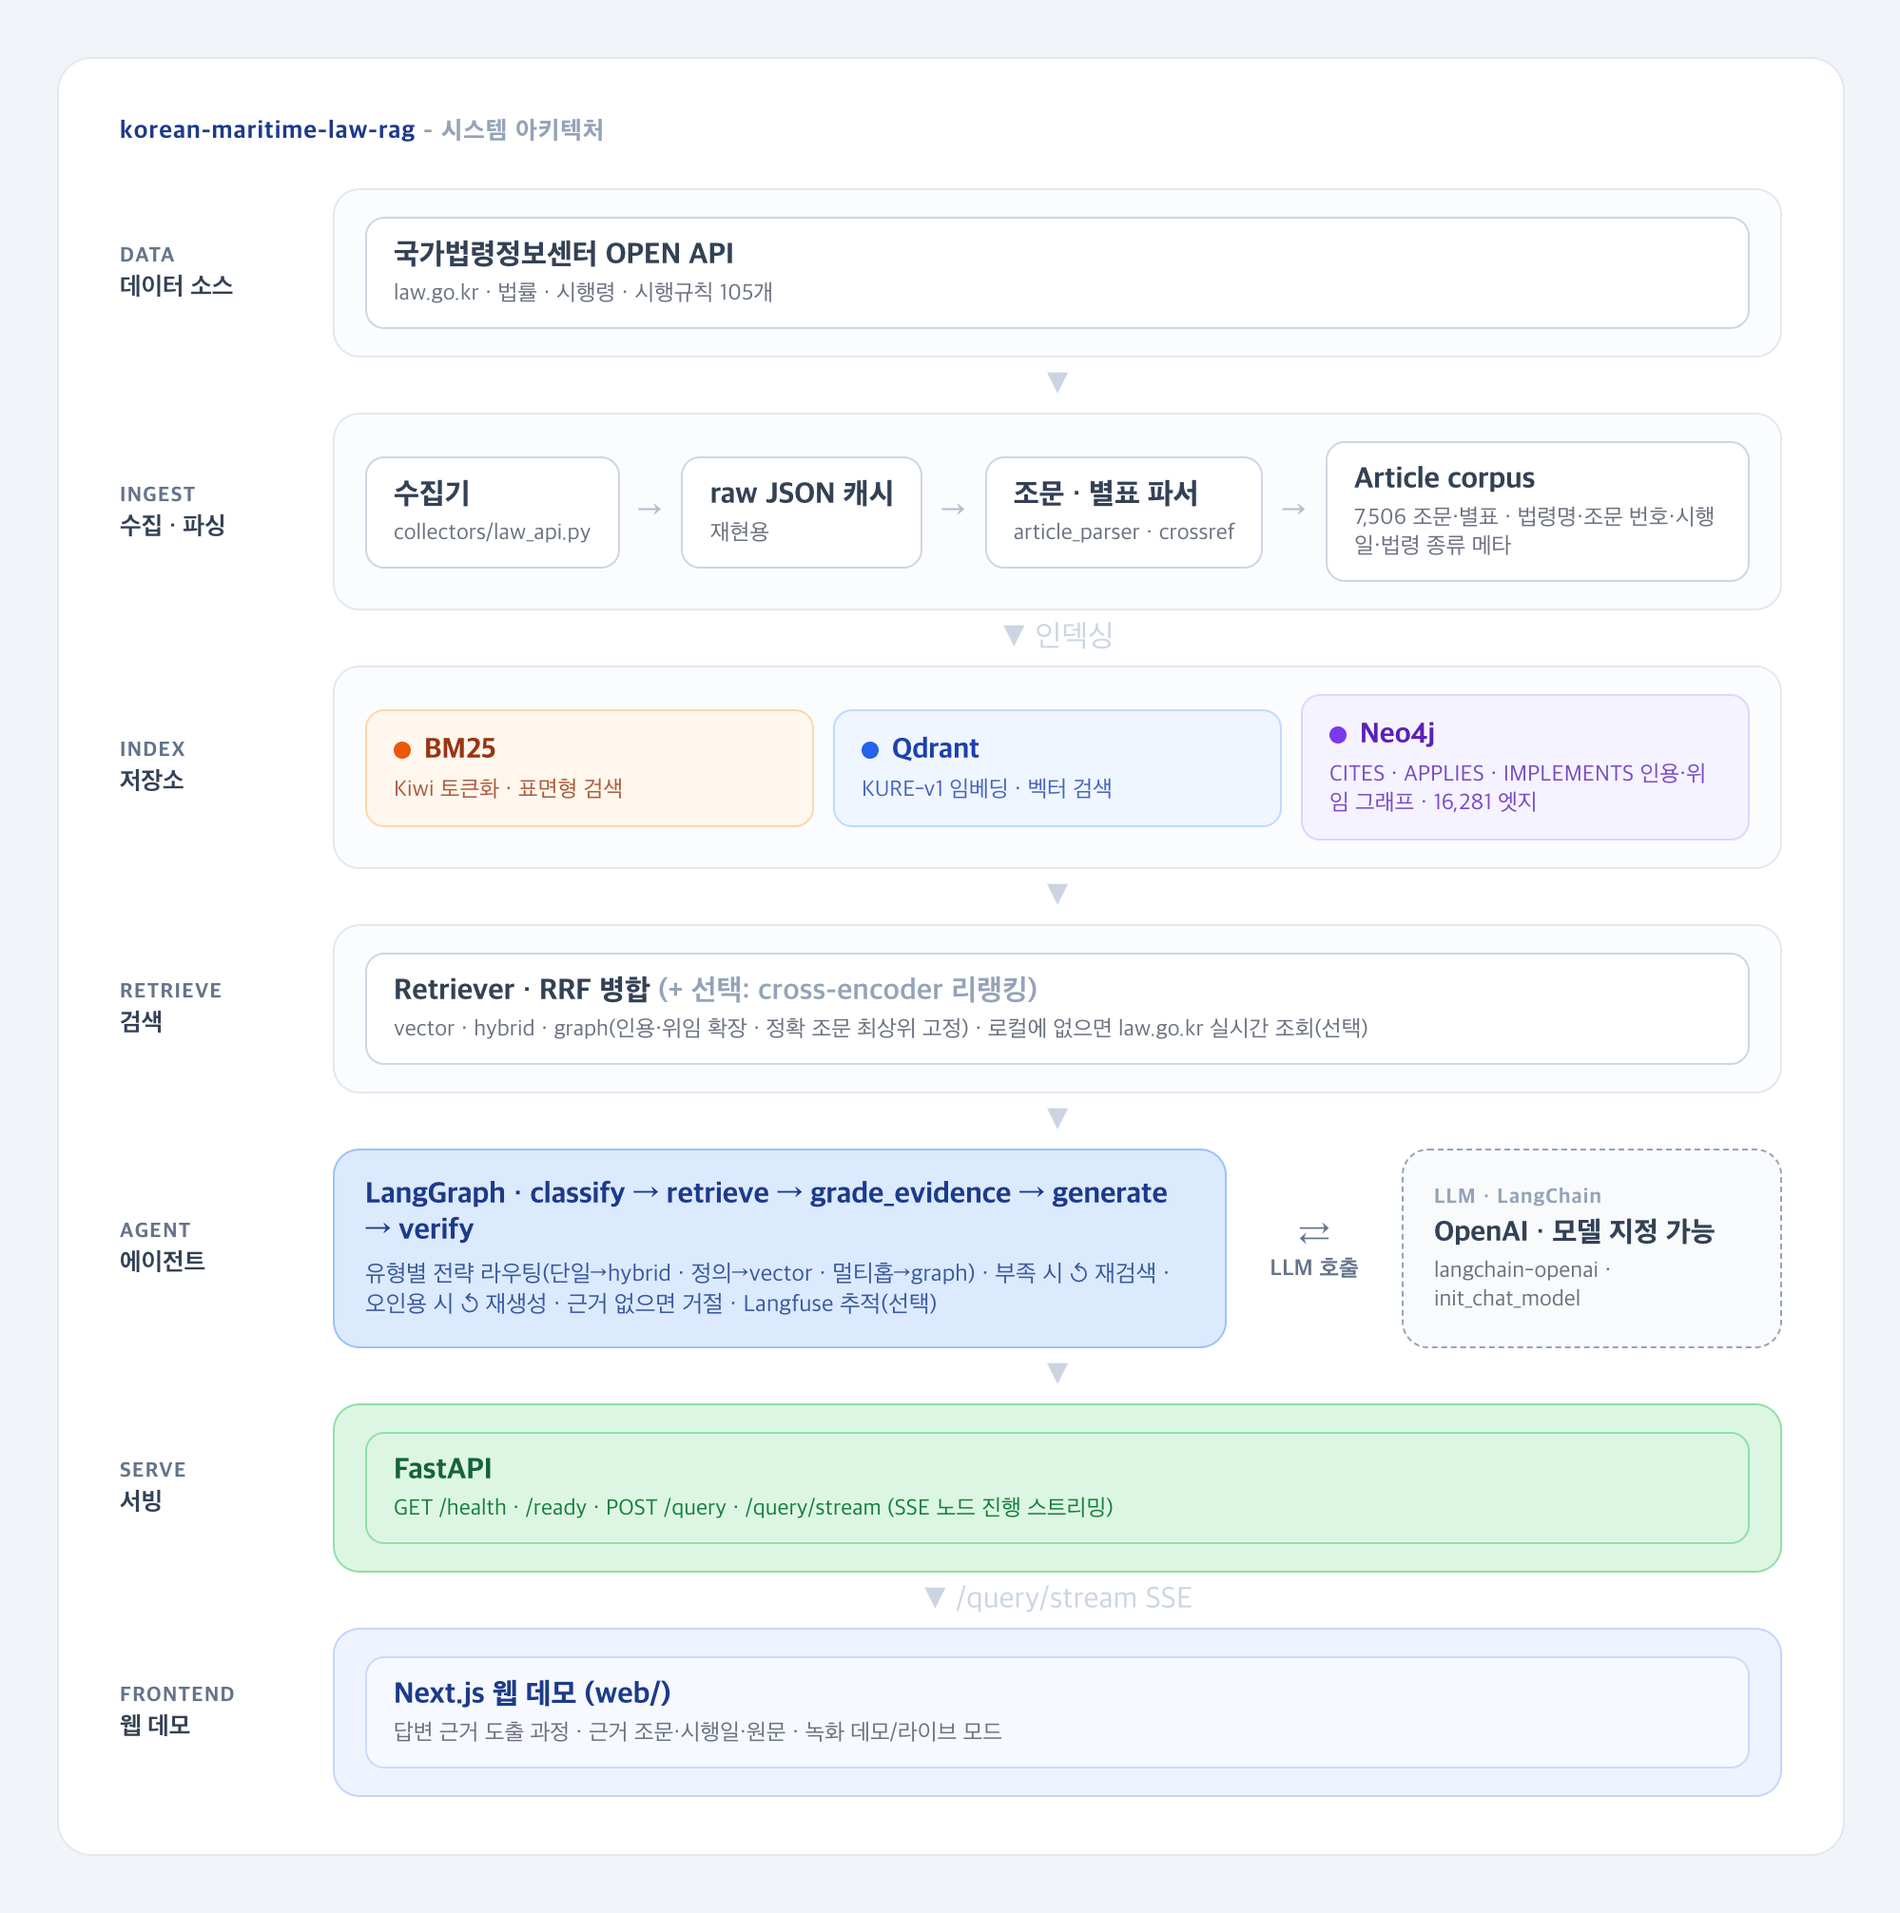
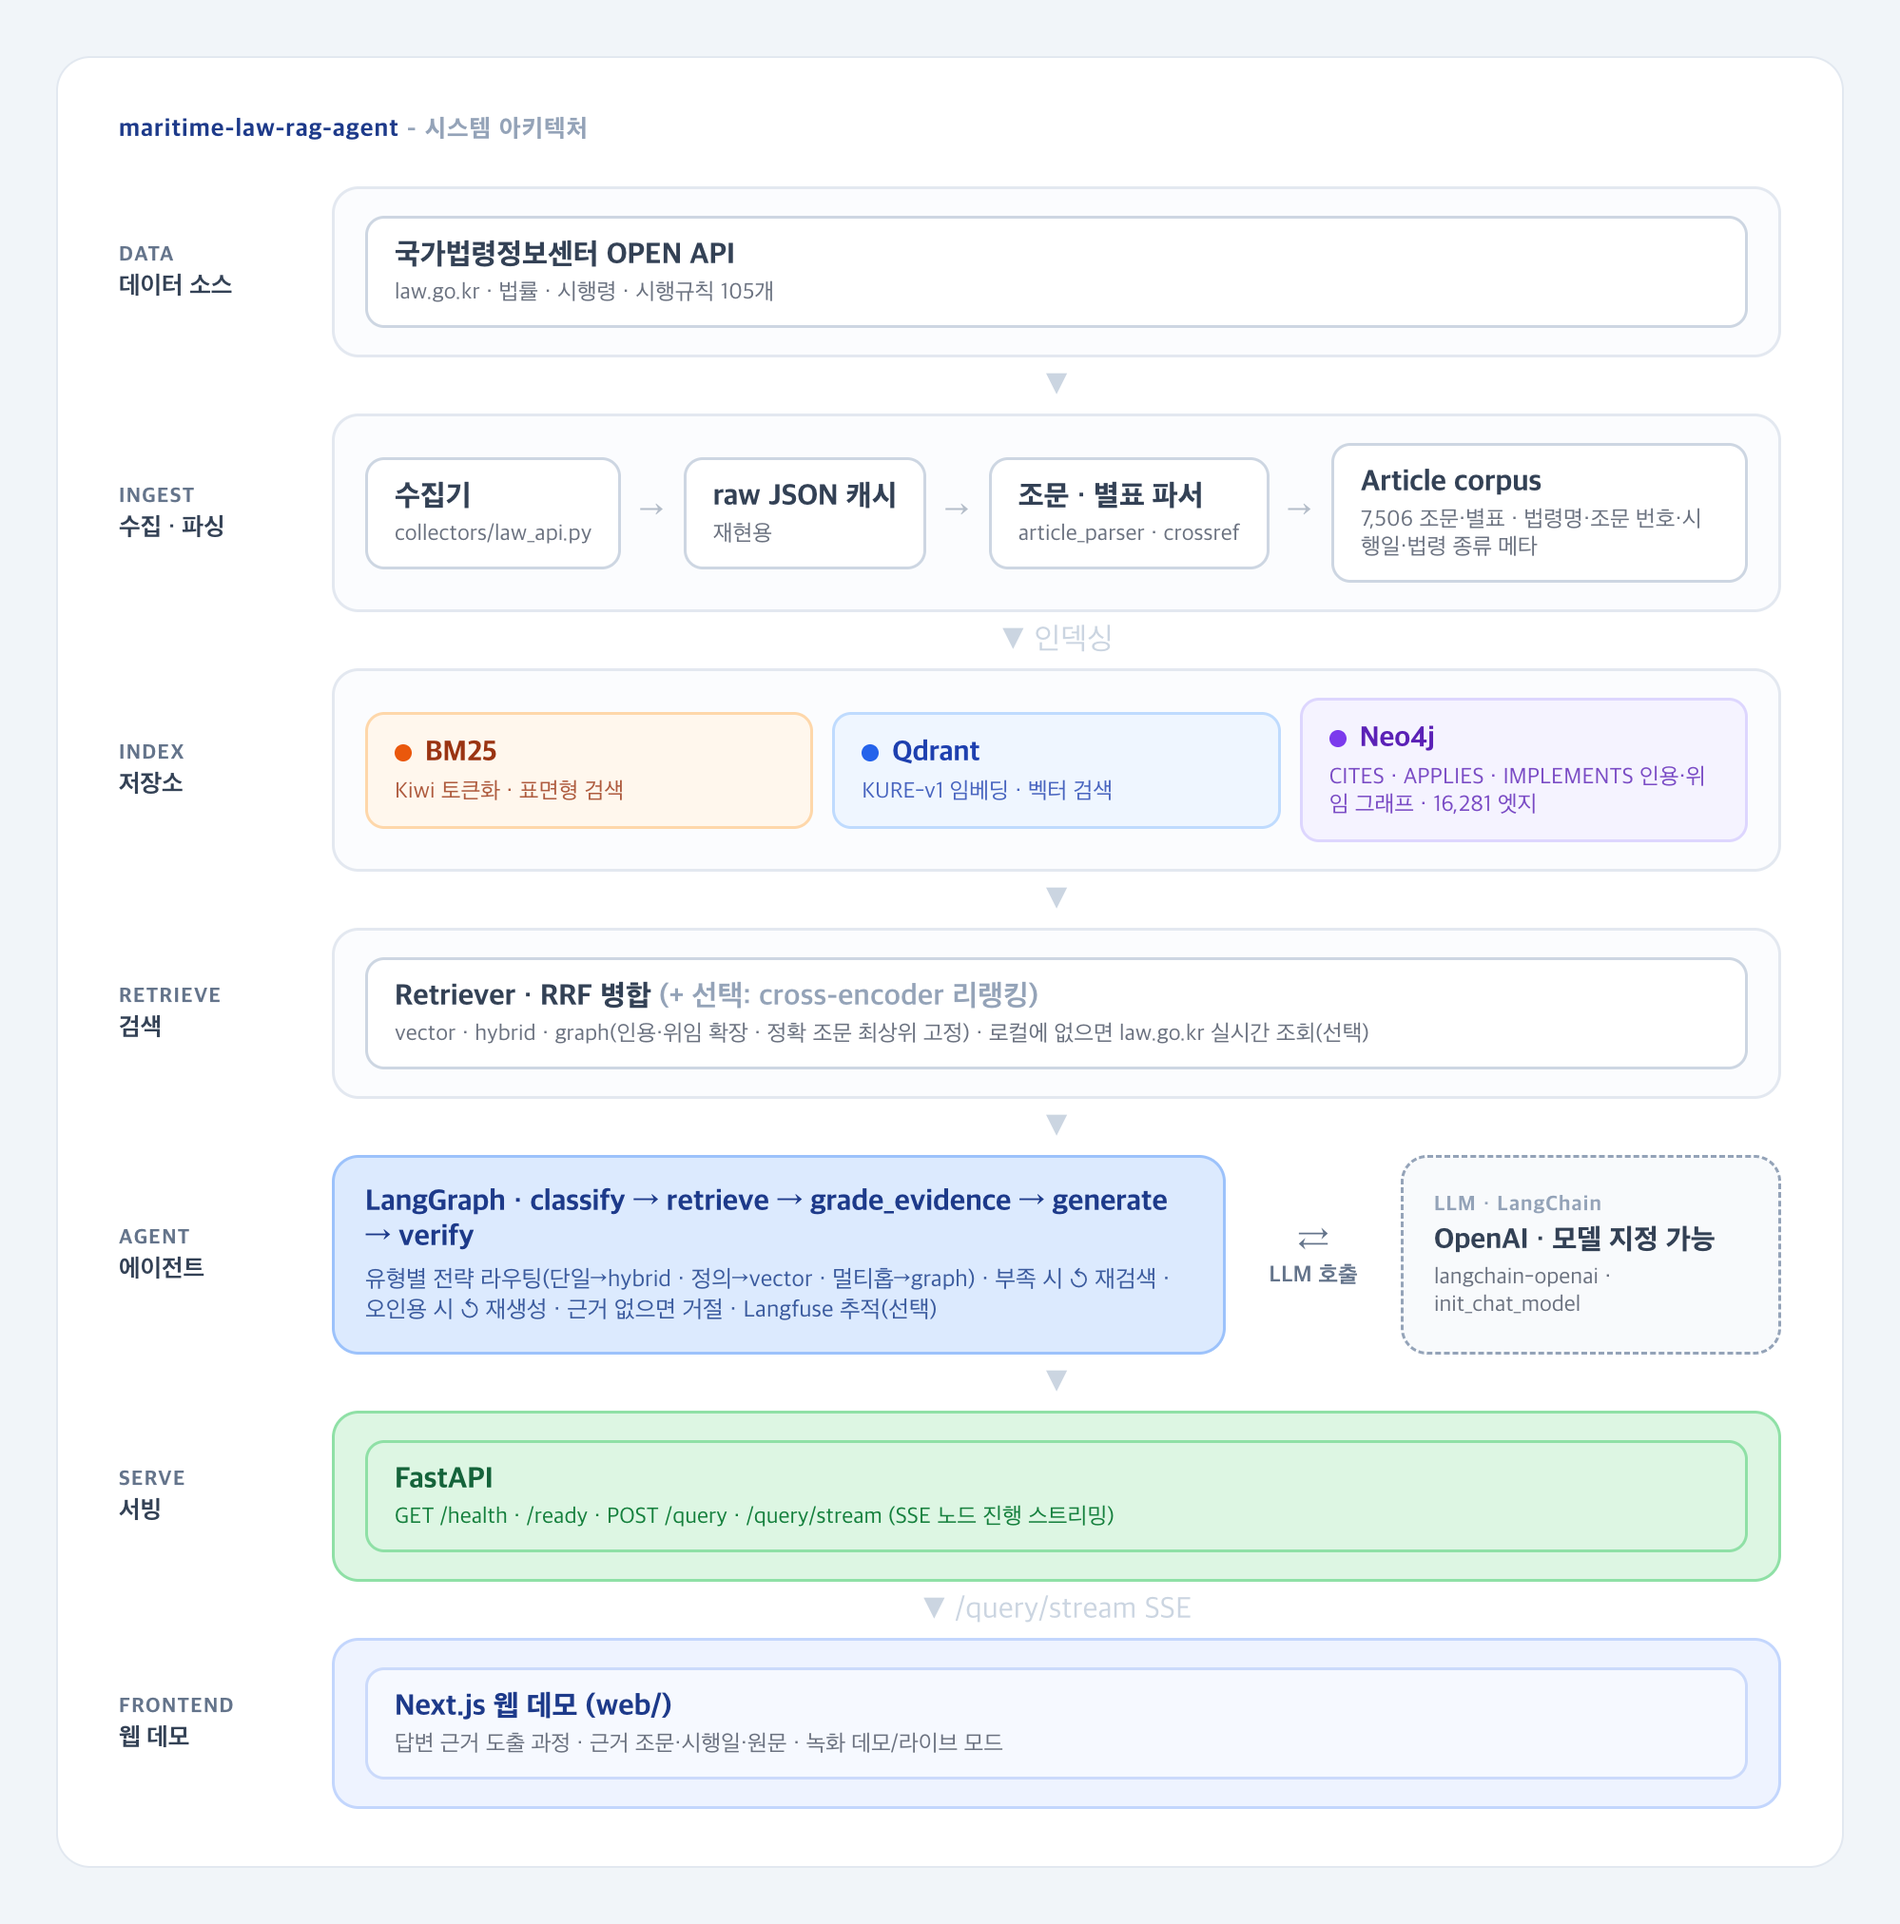
저장소 개명에 맞춰 이름·주소·패키지 메타 갱신

diff --git a/docs/diagrams/architecture.html b/docs/diagrams/architecture.html
@@ -2,7 +2,7 @@
 <html lang="ko">
 <head>
 <meta charset="utf-8">
-<title>korean-maritime-law-rag · 아키텍처</title>
+<title>maritime-law-rag-agent · 아키텍처</title>
 <style>
   * { margin: 0; padding: 0; box-sizing: border-box; }
   html, body { background: #f1f5f9; }
@@ -55,7 +55,7 @@
 </head>
 <body>
   <div class="diagram" id="cap">
-    <div class="doc-title"><b>korean-maritime-law-rag</b> - 시스템 아키텍처</div>
+    <div class="doc-title"><b>maritime-law-rag-agent</b> - 시스템 아키텍처</div>
 
     <div class="layer">
       <div class="rail"><div class="lbl">DATA</div><div class="ko">데이터 소스</div></div>

diff --git a/web/lib/constants.ts b/web/lib/constants.ts
@@ -1,4 +1,4 @@
-export const REPO_URL = "https://github.com/Minsu5452/korean-maritime-law-rag";
+export const REPO_URL = "https://github.com/Minsu5452/maritime-law-rag-agent";
 
 // 국가법령정보센터 법령 원문 링크(법령명 기준).
 export const lawGoKrUrl = (lawName: string) =>

diff --git a/src/korean_maritime_law_rag/serving/app.py b/src/korean_maritime_law_rag/serving/app.py
@@ -15,7 +15,7 @@ from korean_maritime_law_rag.config import load_settings
 from korean_maritime_law_rag.llm import get_chat_model
 from korean_maritime_law_rag.observability import build_langfuse_callbacks
 
-app = FastAPI(title="korean-maritime-law-rag")
+app = FastAPI(title="maritime-law-rag-agent")
 
 # 로컬 프론트엔드(web/)에서 호출할 수 있도록 CORS 허용 출처를 연다.
 # 기본값은 Next.js 개발 서버. 배포 시 MLR_CORS_ORIGINS로 덮어쓴다(쉼표 구분).

diff --git a/README.md b/README.md
@@ -1,6 +1,6 @@
 # 해양 법령 RAG
 
-[![CI](https://github.com/Minsu5452/korean-maritime-law-rag/actions/workflows/ci.yml/badge.svg)](https://github.com/Minsu5452/korean-maritime-law-rag/actions/workflows/ci.yml) [![Live Demo](https://img.shields.io/badge/라이브_데모-vercel-000000?logo=vercel&logoColor=white)](https://korean-maritime-law-rag.vercel.app) ![Python](https://img.shields.io/badge/python-3.12-3776AB?logo=python&logoColor=white) [![License](https://img.shields.io/badge/license-Apache--2.0-blue.svg)](LICENSE)
+[![CI](https://github.com/Minsu5452/maritime-law-rag-agent/actions/workflows/ci.yml/badge.svg)](https://github.com/Minsu5452/maritime-law-rag-agent/actions/workflows/ci.yml) [![Live Demo](https://img.shields.io/badge/라이브_데모-vercel-000000?logo=vercel&logoColor=white)](https://korean-maritime-law-rag.vercel.app) ![Python](https://img.shields.io/badge/python-3.12-3776AB?logo=python&logoColor=white) [![License](https://img.shields.io/badge/license-Apache--2.0-blue.svg)](LICENSE)
 
 해양 법령을 조문 단위로 검색하고, 답변마다 근거가 된 조문을 함께 인용하는 RAG 시스템입니다.
 
@@ -145,7 +145,7 @@ OPENAI_API_KEY=... uv run python scripts/measure_cost.py
 ## 프로젝트 구조
 
 ```text
-korean-maritime-law-rag/
+maritime-law-rag-agent/
 ├── src/korean_maritime_law_rag/
 │   ├── collectors/ law.go.kr 수집기
 │   ├── parsing/    조문 파서와 인용 관계 추출

diff --git a/web/README.md b/web/README.md
@@ -1,6 +1,6 @@
 # 해양법령 길잡이 — 웹 데모
 
-상위 저장소의 `korean-maritime-law-rag` 백엔드를 해양경찰청 현장 실무 관점에서 보여주는
+상위 저장소의 `maritime-law-rag-agent` 백엔드를 해양경찰청 현장 실무 관점에서 보여주는
 Next.js 프론트엔드입니다. 에이전트가 질문을 분석하고, 조문을
 검색하고, 근거를 확인하고, 답변을 작성한 뒤 인용을 검증하는 과정을 단계별로 시각화하고,
 답변이 근거로 삼은 조문을 시행일·원문 링크와 함께 카드로 보여줍니다.
